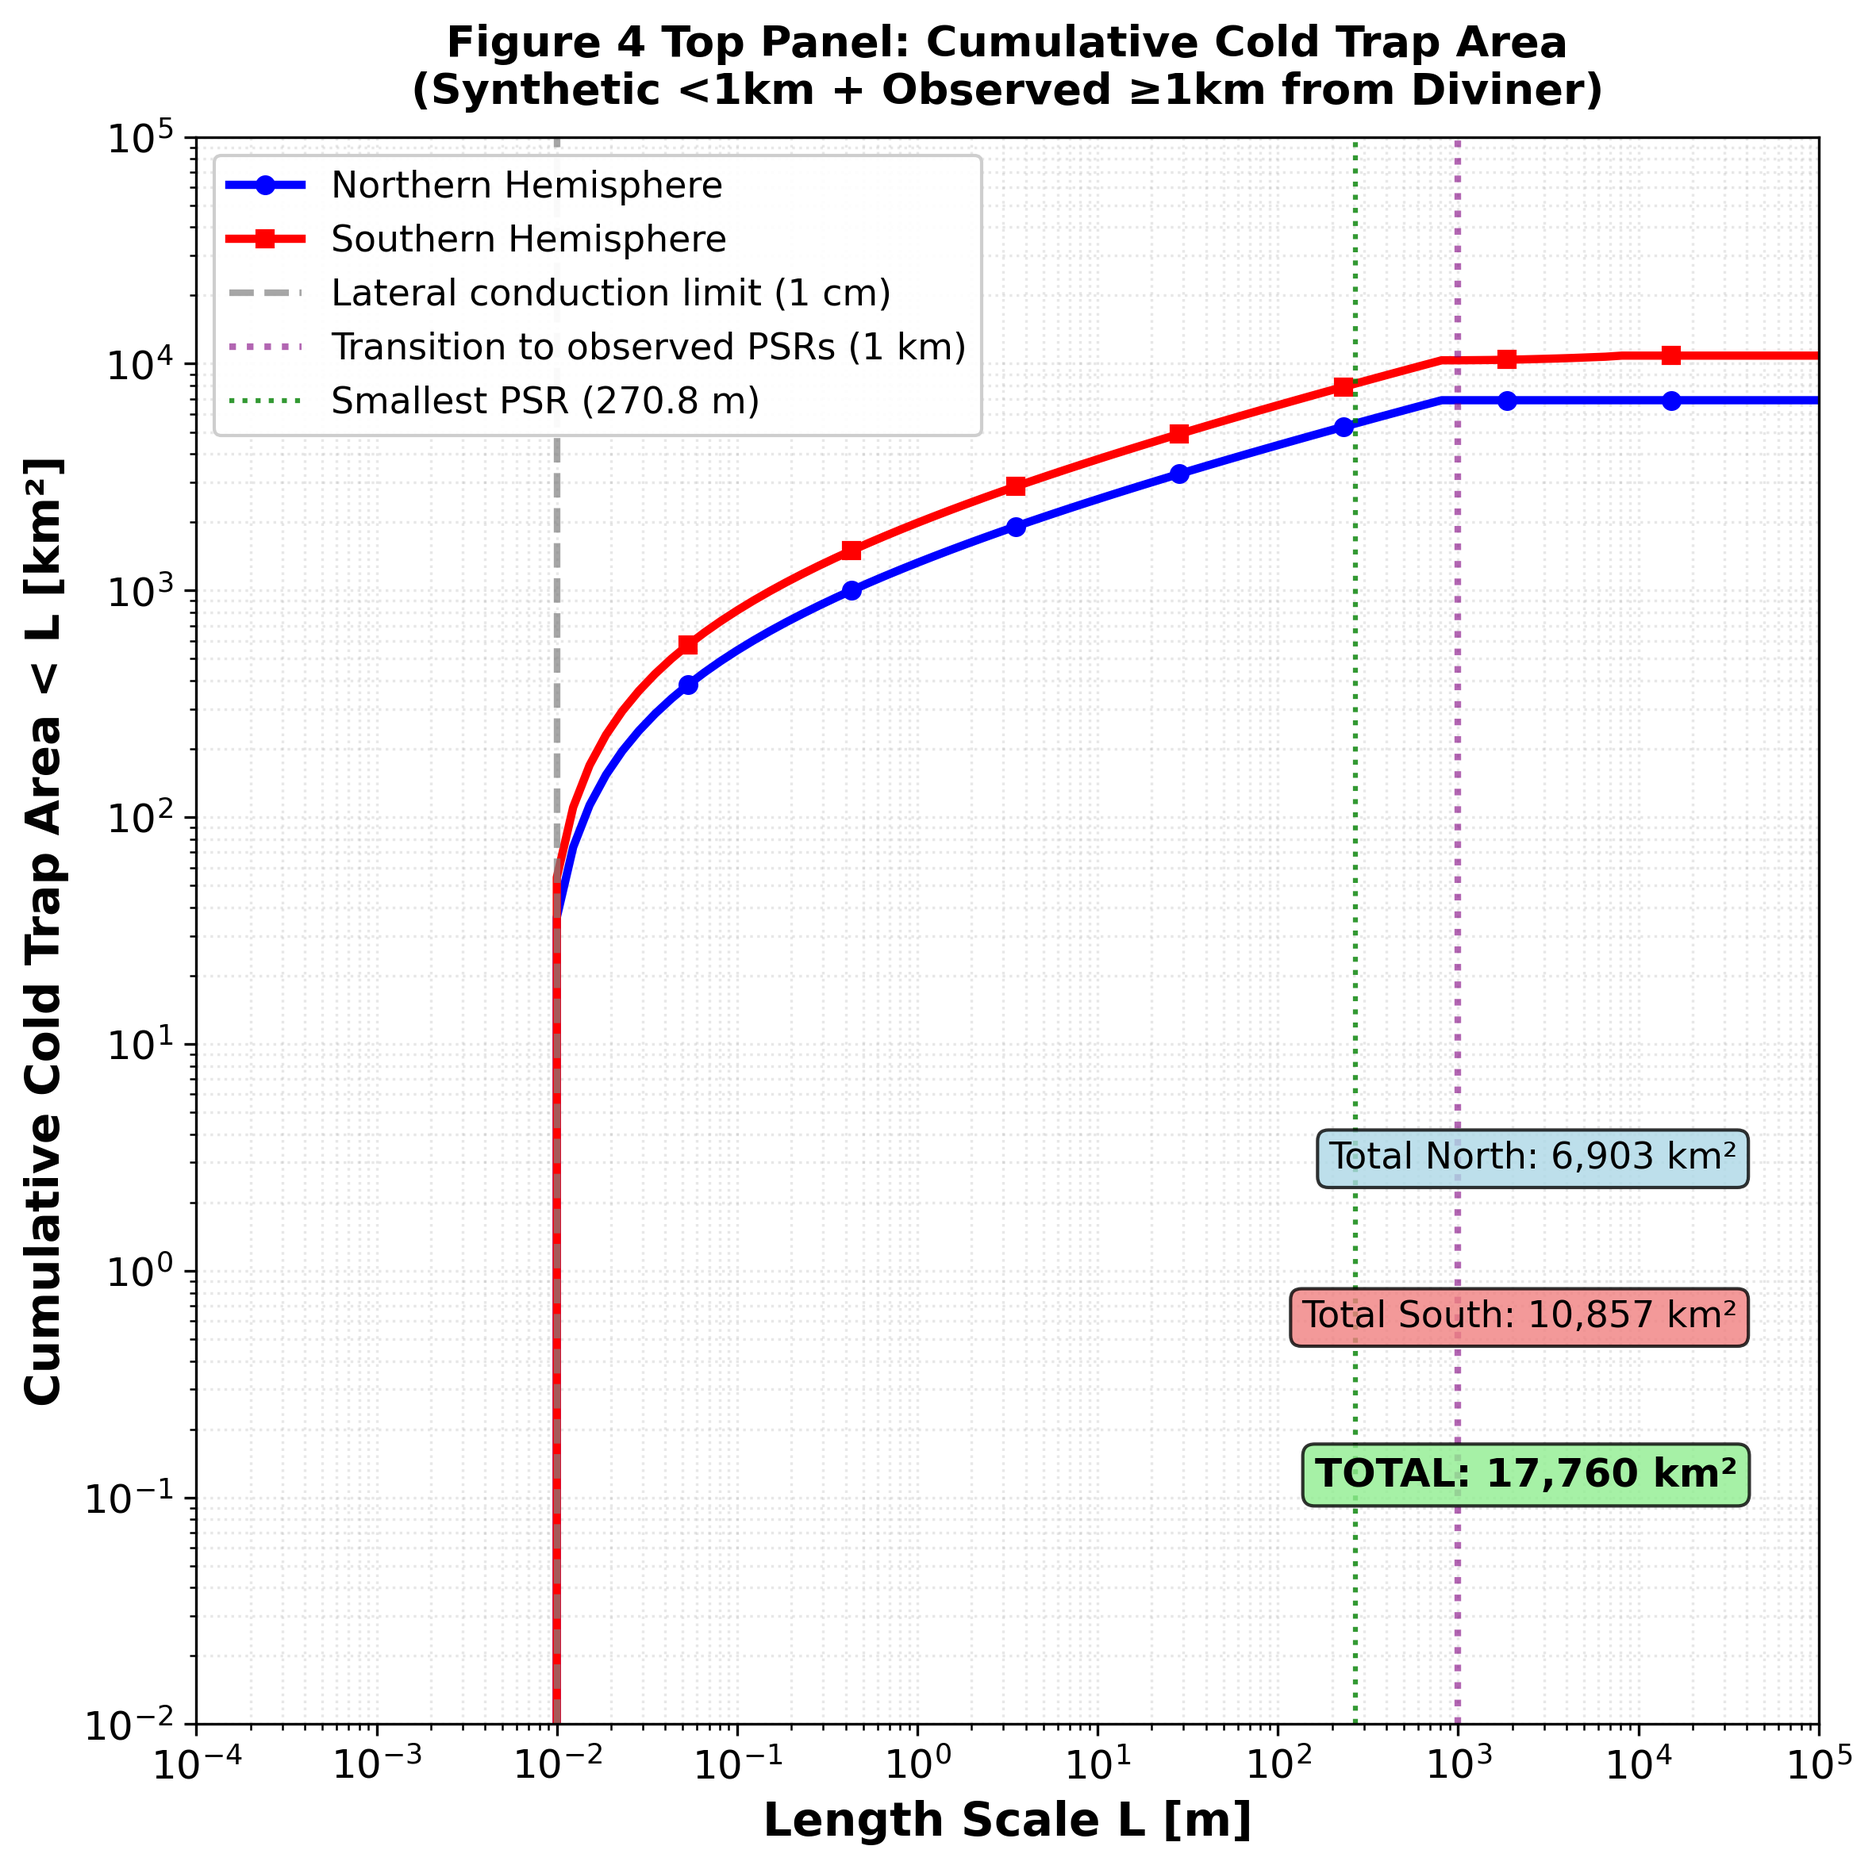
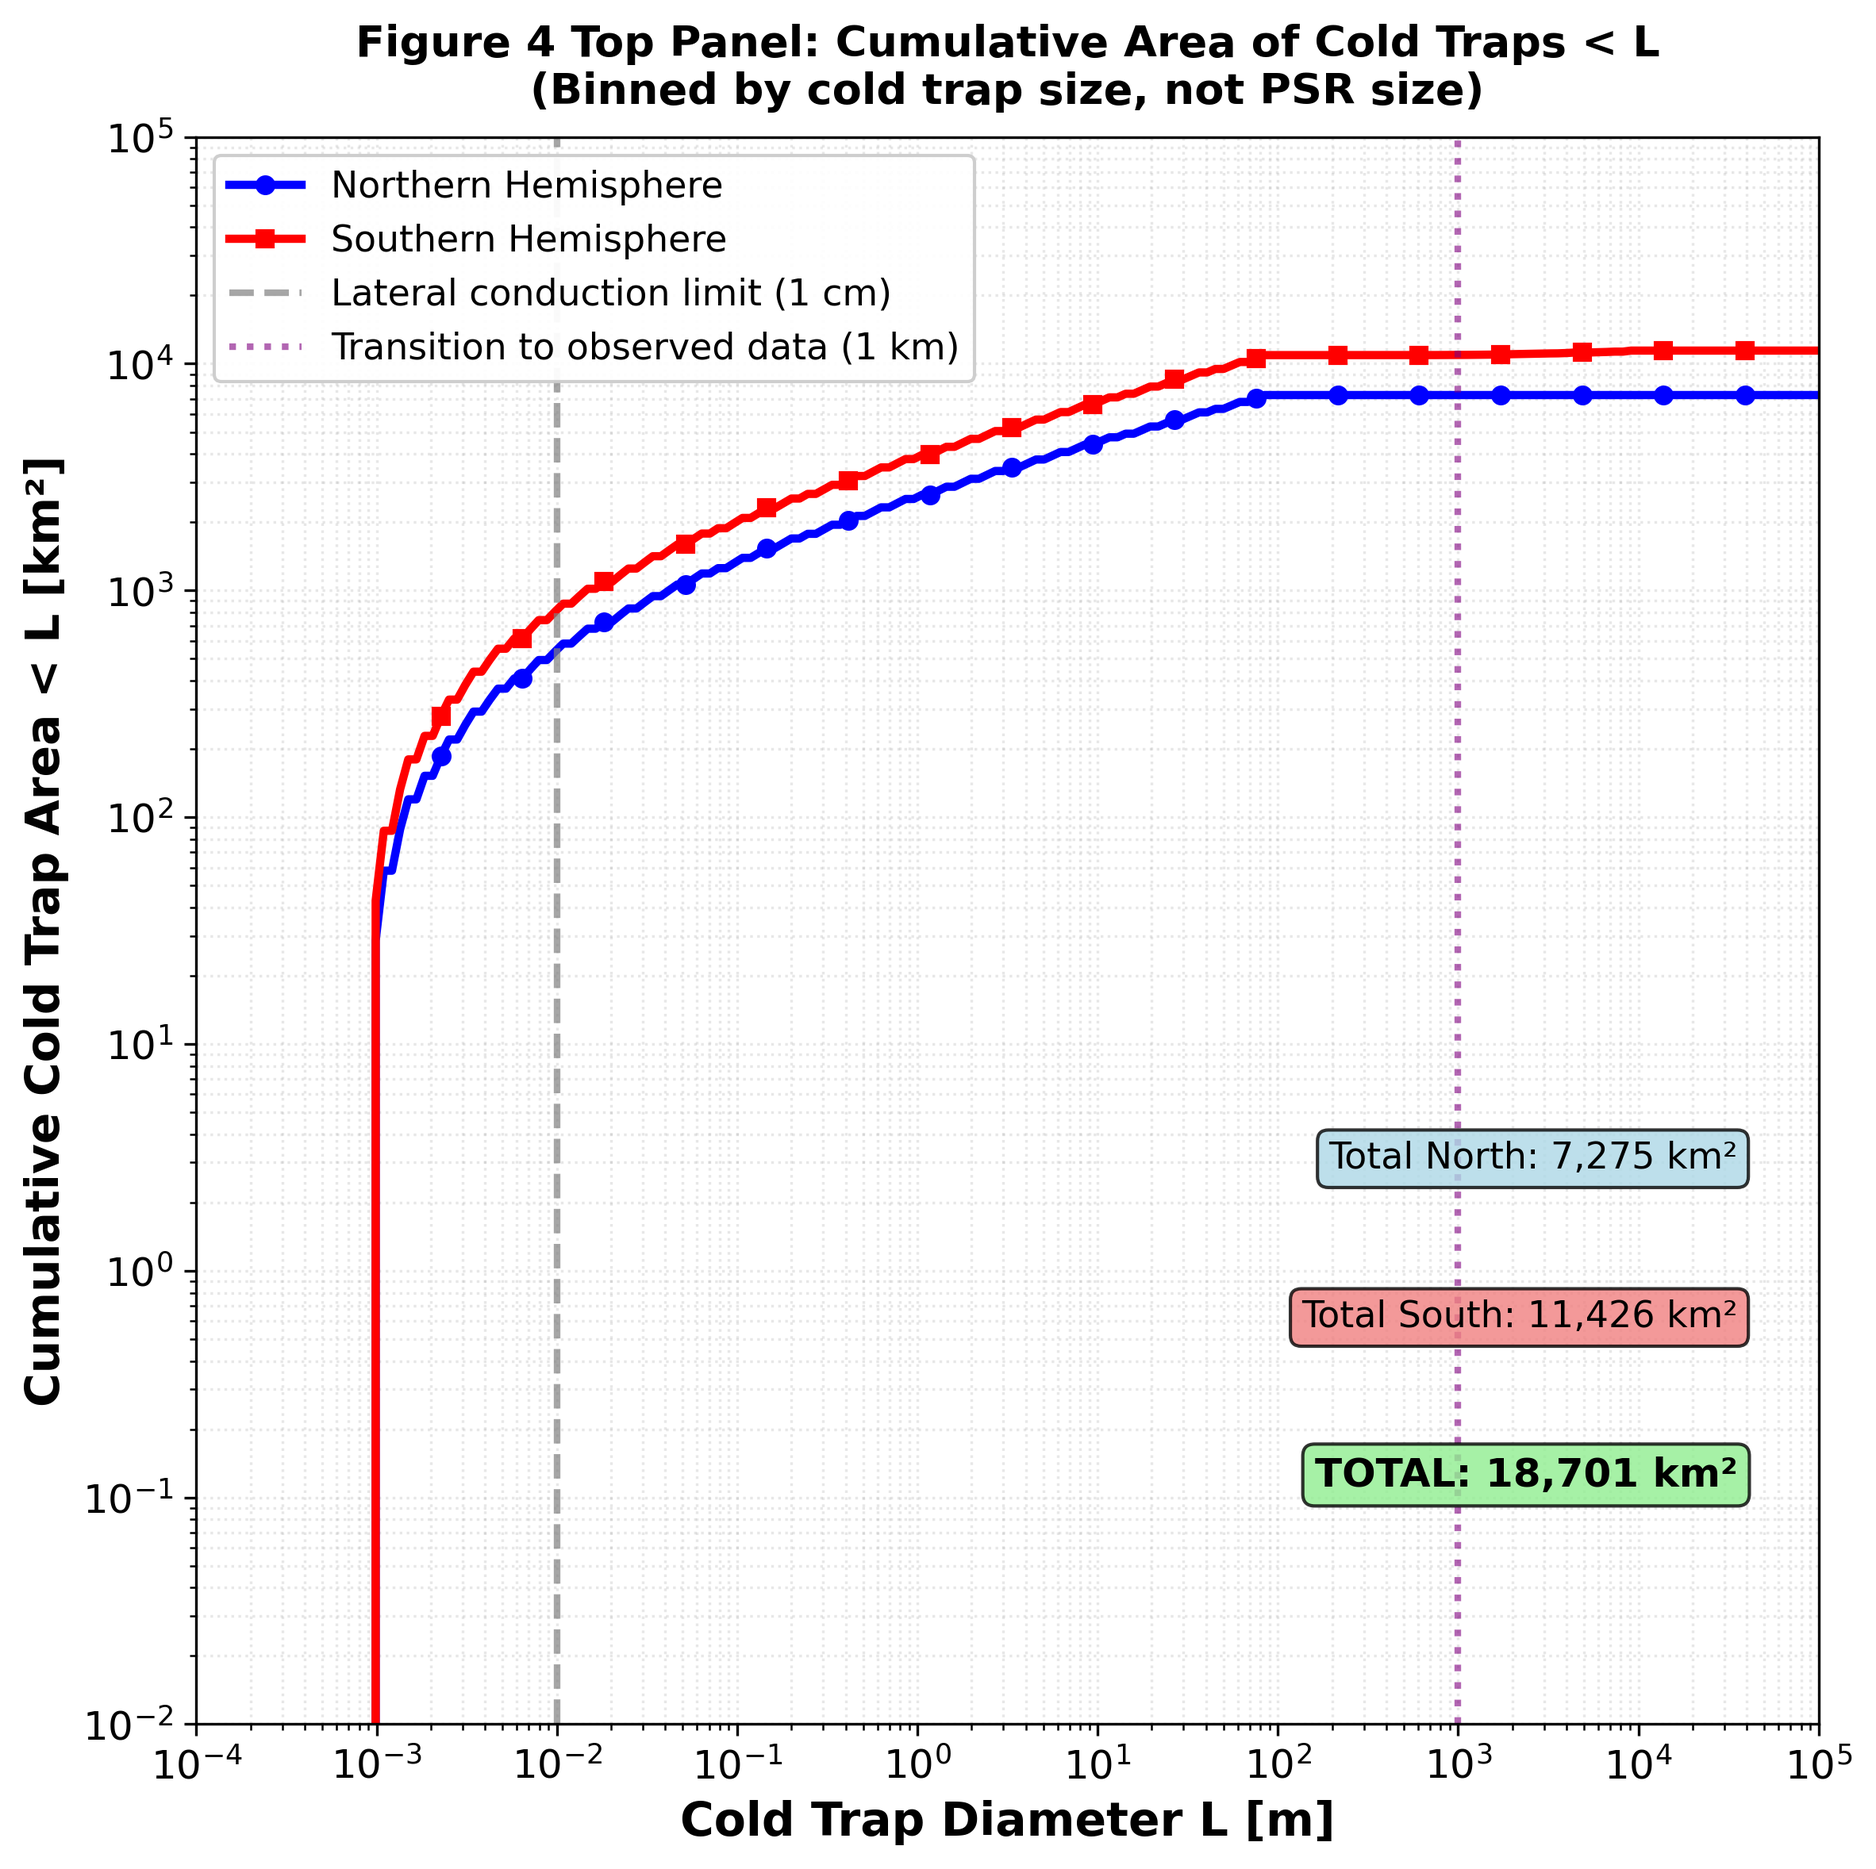
Remake Figure 4: cumulative area of cold traps with size < L
Changed the analysis from binning by PSR diameter to binning by cold trap
size, addressing the key distinction:
- OLD: Cumulative cold trap area from PSRs with diameter ≤ L
- NEW: Cumulative area of cold traps whose diameter < L

Implementation:
- Synthetic cold traps: D_ct = D_psr × √(f_ct) where f_ct is Hayne fraction
- Observed cold traps: D_ct = 2√(A_ct/π) from Diviner measurements
- Result: 18,701 km² total (vs previous ~41,000 km²)

The reduction reflects the physical reality that cold traps are smaller
than their host PSRs, occupying only permanently shadowed portions.

diff --git a/remake_figure4_by_coldtrap_size.py b/remake_figure4_by_coldtrap_size.py
@@ -1,0 +1,329 @@
+#!/usr/bin/env python3
+"""
+Remake Figure 4 Top Panel: Cumulative Cold Trap Area by Cold Trap Size
+
+This version plots cumulative area of cold traps whose size < L:
+1. For each cold trap, calculate its equivalent diameter D_ct
+2. For synthetic PSRs: D_ct = D_psr * sqrt(f_ct) where f_ct is Hayne cold trap fraction
+3. For observed PSRs: D_ct = 2*sqrt(A_ct/π) where A_ct is measured cold trap area
+4. Plot: Cumulative area of cold traps with D_ct < L vs L
+"""
+
+import numpy as np
+import matplotlib.pyplot as plt
+import matplotlib
+matplotlib.use('Agg')
+import pandas as pd
+from hayne_model_corrected import hayne_cold_trap_fraction_corrected
+
+# Physical constants
+COLD_TRAP_THRESHOLD = 110.0  # K
+DIVINER_PIXEL_SIZE = 0.24  # km (240m)
+DIVINER_PIXEL_AREA = DIVINER_PIXEL_SIZE ** 2  # km² = 0.0576 km²/pixel
+LATERAL_CONDUCTION_LIMIT = 0.01  # 1 cm in meters
+TRANSITION_SCALE = 1000.0  # 1 km - transition from synthetic to observed
+LUNAR_SURFACE_AREA = 3.793e7  # km²
+
+# File path
+PSR_CSV = '/home/user/documents/psr_with_temperatures.csv'
+
+
+def load_psr_data_with_temperatures():
+    """Load PSR data with Diviner temperatures from CSV."""
+    print("\n[Loading PSR data with Diviner temperatures]")
+
+    psr = pd.read_csv(PSR_CSV)
+
+    # Calculate diameter from area (assuming circular)
+    psr['diameter_m'] = 2 * np.sqrt(psr['area_km2'] * 1e6 / np.pi)
+
+    # Calculate cold trap area from pixel count
+    psr['coldtrap_fraction'] = 0.0
+    mask = psr['pixel_count'] > 0
+    psr.loc[mask, 'coldtrap_fraction'] = psr.loc[mask, 'pixels_lt_110K'] / psr.loc[mask, 'pixel_count']
+    psr['coldtrap_area_km2'] = psr['coldtrap_fraction'] * psr['area_km2']
+
+    # Calculate cold trap equivalent diameter
+    # D_ct = 2*sqrt(A_ct/π)
+    psr['coldtrap_diameter_m'] = 0.0
+    ct_mask = psr['coldtrap_area_km2'] > 0
+    psr.loc[ct_mask, 'coldtrap_diameter_m'] = 2 * np.sqrt(
+        psr.loc[ct_mask, 'coldtrap_area_km2'] * 1e6 / np.pi)
+
+    print(f"✓ Loaded {len(psr)} PSRs with Diviner temperature data")
+    print(f"  Total PSR area: {psr['area_km2'].sum():.2f} km²")
+    print(f"  Total cold trap area (< 110K): {psr['coldtrap_area_km2'].sum():.2f} km²")
+    print(f"  PSRs with cold traps: {(psr['coldtrap_area_km2'] > 0).sum()}")
+    print(f"  Cold trap diameter range: {psr[ct_mask]['coldtrap_diameter_m'].min():.1f} - {psr[ct_mask]['coldtrap_diameter_m'].max():.1f} m")
+
+    return psr
+
+
+def generate_synthetic_coldtraps(L_min=1e-4, L_max=TRANSITION_SCALE, n_bins=100):
+    """
+    Generate synthetic cold traps for small scales.
+
+    Returns list of individual cold traps with (diameter_m, area_km2, hemisphere).
+    """
+    print("\n[Generating synthetic cold traps]")
+
+    # Create logarithmic bins for PSR diameters
+    L_bins = np.logspace(np.log10(L_min), np.log10(L_max), n_bins)
+    dL = np.diff(np.logspace(np.log10(L_min), np.log10(L_max), n_bins + 1))
+
+    # Power-law exponent
+    b = 1.8
+
+    # Scale factor
+    K = 2e11
+
+    # Differential number density
+    N_diff = K * L_bins**(-b - 1)
+    N_per_bin = N_diff * dL
+
+    # Hemisphere asymmetry
+    N_north_bins = N_per_bin * 0.40
+    N_south_bins = N_per_bin * 0.60
+
+    # Representative latitudes
+    lat_north = 85.0
+    lat_south = -85.0
+
+    # Terrain parameters
+    sigma_s_plains = 5.7
+    sigma_s_craters = 20.0
+    f_craters = 0.20
+    f_plains = 0.80
+
+    # Generate individual cold traps
+    coldtraps = []
+
+    for i, L in enumerate(L_bins):
+        # Skip if below lateral conduction limit
+        if L < LATERAL_CONDUCTION_LIMIT:
+            continue
+
+        # Calculate cold trap fractions
+        f_ct_crater_north = hayne_cold_trap_fraction_corrected(sigma_s_craters, lat_north)
+        f_ct_crater_south = hayne_cold_trap_fraction_corrected(sigma_s_craters, lat_south)
+        f_ct_plains_north = hayne_cold_trap_fraction_corrected(sigma_s_plains, lat_north)
+        f_ct_plains_south = hayne_cold_trap_fraction_corrected(sigma_s_plains, lat_south)
+
+        # Weighted average
+        f_ct_north = f_craters * f_ct_crater_north + f_plains * f_ct_plains_north
+        f_ct_south = f_craters * f_ct_crater_south + f_plains * f_ct_plains_south
+
+        # Number of PSRs in this bin
+        n_north = N_north_bins[i]
+        n_south = N_south_bins[i]
+
+        # For each PSR of diameter L with cold trap fraction f_ct:
+        # Cold trap has effective diameter D_ct = L * sqrt(f_ct)
+        # Cold trap area = π(D_ct/2)² = π(L/2)² * f_ct
+
+        D_ct_north = L * np.sqrt(f_ct_north)
+        D_ct_south = L * np.sqrt(f_ct_south)
+
+        A_ct_north = np.pi * (D_ct_north / 2.0)**2 * 1e-6  # km² per cold trap
+        A_ct_south = np.pi * (D_ct_south / 2.0)**2 * 1e-6  # km² per cold trap
+
+        # Add individual cold traps
+        # Note: We add fractional counts since N can be large
+        if n_north > 0 and A_ct_north > 0:
+            coldtraps.append({
+                'diameter_m': D_ct_north,
+                'area_km2': A_ct_north * n_north,  # Total area from all n_north cold traps
+                'hemisphere': 'North',
+                'count': n_north  # Number of cold traps at this size
+            })
+
+        if n_south > 0 and A_ct_south > 0:
+            coldtraps.append({
+                'diameter_m': D_ct_south,
+                'area_km2': A_ct_south * n_south,  # Total area from all n_south cold traps
+                'hemisphere': 'South',
+                'count': n_south
+            })
+
+    print(f"  Generated {len(coldtraps)} synthetic cold trap size bins")
+    total_area = sum(ct['area_km2'] for ct in coldtraps)
+    print(f"  Total synthetic cold trap area: {total_area:.2f} km²")
+
+    return coldtraps
+
+
+def extract_observed_coldtraps(psr_data, min_diameter_m=TRANSITION_SCALE):
+    """
+    Extract observed cold traps from large PSRs.
+
+    Returns list of cold traps with (diameter_m, area_km2, hemisphere).
+    """
+    print("\n[Extracting observed cold traps from large PSRs]")
+
+    # Filter for large PSRs with cold traps
+    large_psrs = psr_data[psr_data['diameter_m'] >= min_diameter_m].copy()
+    large_psrs_with_ct = large_psrs[large_psrs['coldtrap_area_km2'] > 0].copy()
+
+    print(f"  Large PSRs (D >= {min_diameter_m}m): {len(large_psrs)}")
+    print(f"  Large PSRs with cold traps: {len(large_psrs_with_ct)}")
+
+    coldtraps = []
+    for _, row in large_psrs_with_ct.iterrows():
+        coldtraps.append({
+            'diameter_m': row['coldtrap_diameter_m'],
+            'area_km2': row['coldtrap_area_km2'],
+            'hemisphere': row['hemisphere'],
+            'count': 1  # Each PSR contributes one cold trap
+        })
+
+    total_area = sum(ct['area_km2'] for ct in coldtraps)
+    print(f"  Total observed cold trap area: {total_area:.2f} km²")
+
+    return coldtraps
+
+
+def calculate_cumulative_by_size(coldtraps, L_values):
+    """
+    Calculate cumulative cold trap area for cold traps with diameter < L.
+
+    Args:
+        coldtraps: List of dicts with 'diameter_m', 'area_km2', 'hemisphere'
+        L_values: Array of diameter thresholds [m]
+
+    Returns:
+        cum_area_north, cum_area_south: Cumulative areas at each L threshold
+    """
+    print("\n[Calculating cumulative areas by cold trap size]")
+
+    # Separate by hemisphere
+    north_cts = [ct for ct in coldtraps if ct['hemisphere'] == 'North']
+    south_cts = [ct for ct in coldtraps if ct['hemisphere'] == 'South']
+
+    # Sort by diameter
+    north_cts.sort(key=lambda x: x['diameter_m'])
+    south_cts.sort(key=lambda x: x['diameter_m'])
+
+    cum_area_north = np.zeros(len(L_values))
+    cum_area_south = np.zeros(len(L_values))
+
+    # For each L threshold, sum area of all cold traps with diameter < L
+    for i, L in enumerate(L_values):
+        # North
+        for ct in north_cts:
+            if ct['diameter_m'] < L:
+                cum_area_north[i] += ct['area_km2']
+            else:
+                break  # Sorted, so we can stop
+
+        # South
+        for ct in south_cts:
+            if ct['diameter_m'] < L:
+                cum_area_south[i] += ct['area_km2']
+            else:
+                break
+
+    print(f"  Total cold trap area (North): {cum_area_north[-1]:.2f} km²")
+    print(f"  Total cold trap area (South): {cum_area_south[-1]:.2f} km²")
+    print(f"  Total: {cum_area_north[-1] + cum_area_south[-1]:.2f} km²")
+
+    return cum_area_north, cum_area_south
+
+
+def plot_cumulative_coldtrap_area(L_values, cum_area_north, cum_area_south,
+                                   output_path='/home/user/documents/figure4_top_panel.png'):
+    """
+    Create Figure 4 top panel: Cumulative cold trap area vs cold trap diameter.
+    """
+    fig, ax = plt.subplots(1, 1, figsize=(8, 8))
+
+    # Plot cumulative areas
+    ax.loglog(L_values, cum_area_north, 'b-', linewidth=2.5,
+              label='Northern Hemisphere', marker='o', markersize=5, markevery=10)
+    ax.loglog(L_values, cum_area_south, 'r-', linewidth=2.5,
+              label='Southern Hemisphere', marker='s', markersize=5, markevery=10)
+
+    # Add reference lines
+    ax.axvline(x=LATERAL_CONDUCTION_LIMIT, color='gray', linestyle='--',
+               alpha=0.7, linewidth=2, label='Lateral conduction limit (1 cm)')
+    ax.axvline(x=TRANSITION_SCALE, color='purple', linestyle=':',
+               alpha=0.6, linewidth=2, label=f'Transition to observed data ({TRANSITION_SCALE/1000:.0f} km)')
+
+    ax.set_xlabel('Cold Trap Diameter L [m]', fontsize=14, fontweight='bold')
+    ax.set_ylabel('Cumulative Cold Trap Area < L [km²]', fontsize=14, fontweight='bold')
+    ax.set_title('Figure 4 Top Panel: Cumulative Area of Cold Traps < L\n' +
+                 '(Binned by cold trap size, not PSR size)',
+                 fontsize=13, fontweight='bold', pad=10)
+    ax.legend(fontsize=11, loc='upper left', framealpha=0.95)
+    ax.grid(True, alpha=0.3, which='both', linestyle=':')
+    ax.set_xlim([L_values[0], L_values[-1]])
+    ax.set_ylim([1e-2, 1e5])
+    ax.tick_params(labelsize=12)
+
+    # Add annotations
+    total_north = cum_area_north[-1]
+    total_south = cum_area_south[-1]
+    total_both = total_north + total_south
+
+    ax.text(0.95, 0.35, f'Total North: {total_north:,.0f} km²',
+            transform=ax.transAxes, fontsize=11, ha='right',
+            bbox=dict(boxstyle='round', facecolor='lightblue', alpha=0.8))
+    ax.text(0.95, 0.25, f'Total South: {total_south:,.0f} km²',
+            transform=ax.transAxes, fontsize=11, ha='right',
+            bbox=dict(boxstyle='round', facecolor='lightcoral', alpha=0.8))
+    ax.text(0.95, 0.15, f'TOTAL: {total_both:,.0f} km²',
+            transform=ax.transAxes, fontsize=12, fontweight='bold', ha='right',
+            bbox=dict(boxstyle='round', facecolor='lightgreen', alpha=0.8))
+
+    plt.tight_layout()
+    plt.savefig(output_path, dpi=300, bbox_inches='tight')
+    print(f"\n✓ Saved: {output_path}")
+    plt.close()
+
+
+def main():
+    """Main execution."""
+    print("\n" + "=" * 80)
+    print("FIGURE 4 TOP PANEL: CUMULATIVE COLD TRAP AREA BY COLD TRAP SIZE")
+    print("Plots cumulative area of cold traps with diameter < L")
+    print("=" * 80)
+
+    # Load PSR data with Diviner temperatures
+    all_psrs = load_psr_data_with_temperatures()
+
+    # Generate synthetic cold traps for small scales
+    synthetic_cts = generate_synthetic_coldtraps(L_min=1e-4, L_max=TRANSITION_SCALE, n_bins=100)
+
+    # Extract observed cold traps from large PSRs
+    observed_cts = extract_observed_coldtraps(all_psrs, min_diameter_m=TRANSITION_SCALE)
+
+    # Combine all cold traps
+    all_coldtraps = synthetic_cts + observed_cts
+
+    print(f"\n[Combined cold trap inventory]")
+    print(f"  Synthetic cold trap bins: {len(synthetic_cts)}")
+    print(f"  Observed cold traps: {len(observed_cts)}")
+    print(f"  Total entries: {len(all_coldtraps)}")
+
+    # Define L values for cumulative calculation
+    L_values = np.logspace(np.log10(1e-4), np.log10(100000), 200)
+
+    # Calculate cumulative areas
+    cum_area_north, cum_area_south = calculate_cumulative_by_size(all_coldtraps, L_values)
+
+    # Plot
+    plot_cumulative_coldtrap_area(L_values, cum_area_north, cum_area_south)
+
+    # Summary
+    total_area = cum_area_north[-1] + cum_area_south[-1]
+    print("\n" + "=" * 80)
+    print("SUMMARY")
+    print("=" * 80)
+    print(f"Total cumulative cold trap area: {total_area:,.2f} km²")
+    print(f"Fraction of lunar surface: {total_area/LUNAR_SURFACE_AREA*100:.4f}%")
+    print(f"South/North ratio: {cum_area_south[-1]/cum_area_north[-1]:.2f}")
+    print("\n✓ COMPLETE: Figure 4 top panel by cold trap size")
+    print("=" * 80 + "\n")
+
+
+if __name__ == "__main__":
+    main()
